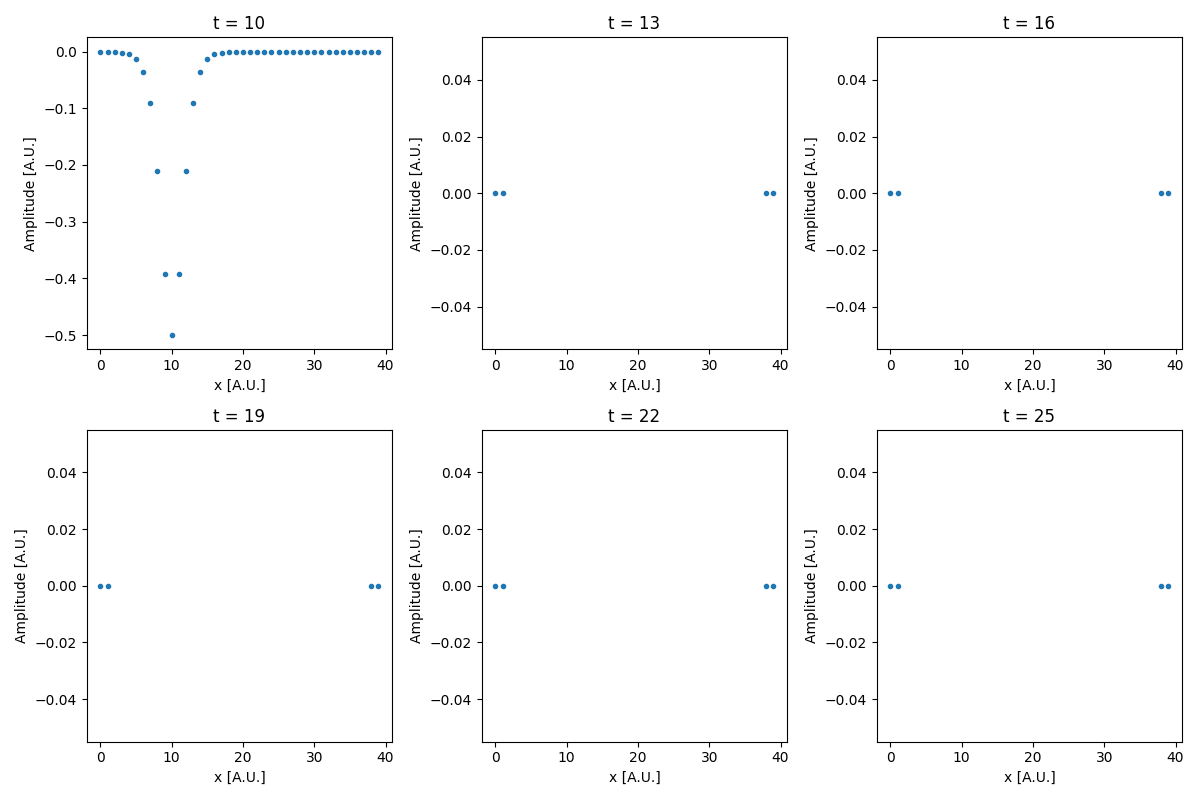
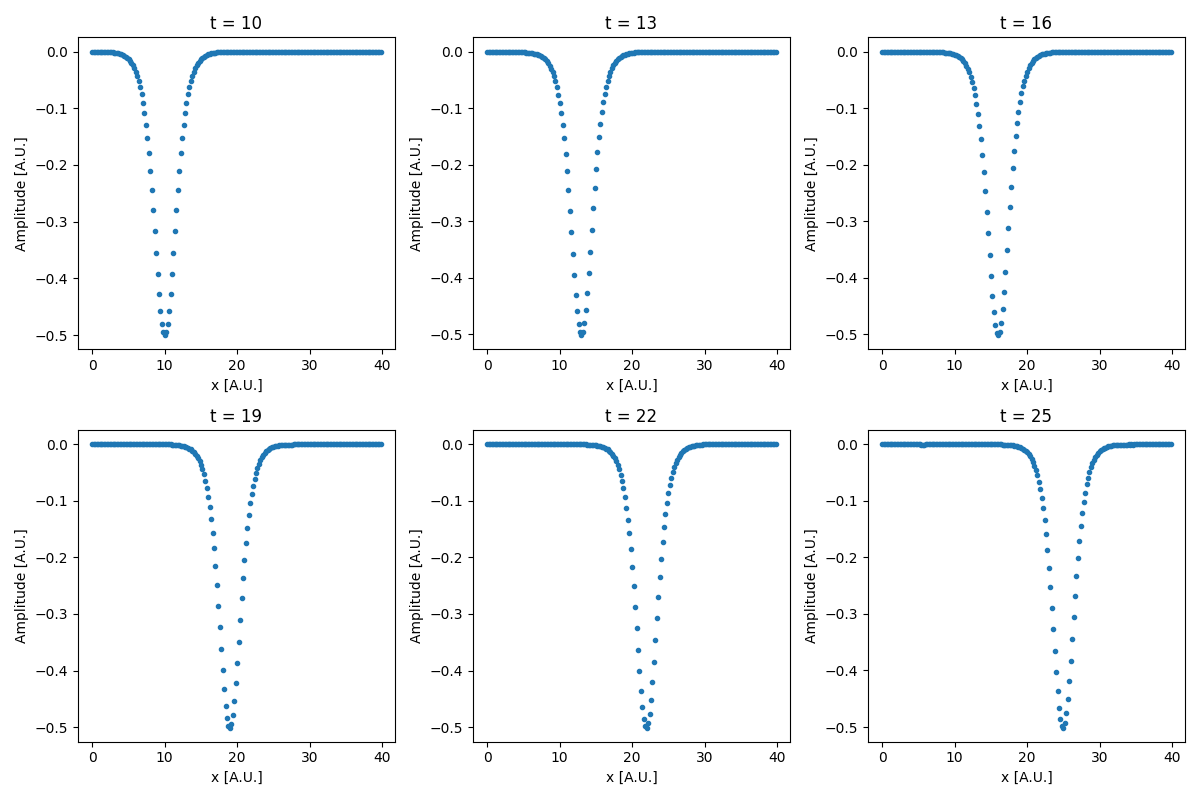
try of a new code

diff --git a/solver.py b/solver.py
@@ -41,10 +41,10 @@ def KdV_Solver(u, Delta_x, Delta_t, mu=1, eps=-6):
         for i in range(2, x_size -2):
 
             if j == 0:
-                u[i,j+1] = u[i, j] - Delta_t/(2*Delta_x) * eps * u[i,j] * (u[i+1,j] - u[i-1,j]) - Delta_t/(2*Delta_x**3) * mu *(u[i+2,j] - 2*u[i+1,j] +2*u[i-1,j]-u[i-1,j] )
-
+                u[i,j+1] = u[i, j] - Delta_t/(2*Delta_x) * eps * u[i,j] * (u[i+1,j] - u[i-1,j]) - Delta_t/(2*Delta_x**3) * mu *(u[i+2,j] - 2*u[i+1,j] +2*u[i-1,j]-u[i-2,j] )
+            
             else:
-                u[i,j+1] = u[i, j-1] - Delta_t/Delta_x * eps * u[i,j] * (u[i+1,j] - u[i-1,j]) - Delta_t/Delta_x**3 * mu *(u[i+2,j] - 2*u[i+1,j] +2*u[i-1,j]-u[i-1,j] )
+                u[i,j+1] = u[i, j-1] - Delta_t/Delta_x * eps * u[i,j] * (u[i+1,j] - u[i-1,j]) - Delta_t/Delta_x**3 * mu *(u[i+2,j] - 2*u[i+1,j] +2*u[i-1,j]-u[i-2,j] )
 
         # We assume fixed values for
         u[1,j] = 0
@@ -60,7 +60,7 @@ def KdV_Solver(u, Delta_x, Delta_t, mu=1, eps=-6):
 if __name__ == "__main__":
 
     ## Defining constants: ##
-    Delta_x = 1                       # Spacial step size
+    Delta_x = 0.2                       # Spacial step size
     X_max = 40                          # System length
     x_size = int(X_max/Delta_x)         # Number of steps in position
 
@@ -77,7 +77,7 @@ if __name__ == "__main__":
     
     # Let's compute the solution!
     u_solution = KdV_Solver(u, Delta_x, Delta_t)
-
+    
     # Plotting results
     fig,axes=plt.subplots(2,3,figsize=(12,8))
     T_series=range(0,18,3)
@@ -95,3 +95,8 @@ if __name__ == "__main__":
     plt.tight_layout()
     plt.savefig("Soliton_plot_try.png")
     plt.show()
+    '''
+
+    plt.plot(x_series, u_solution[:, 1], ".")
+    plt.show()
+    '''
